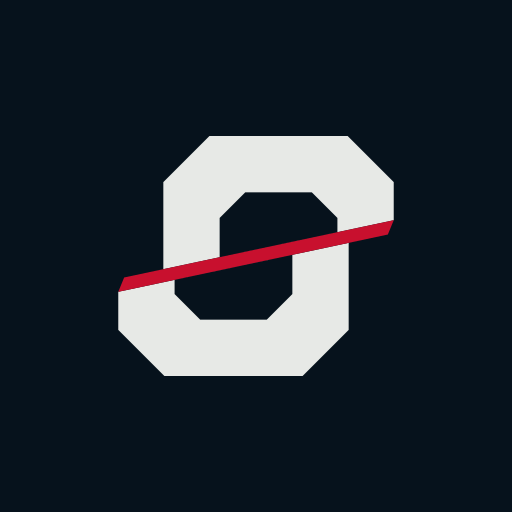
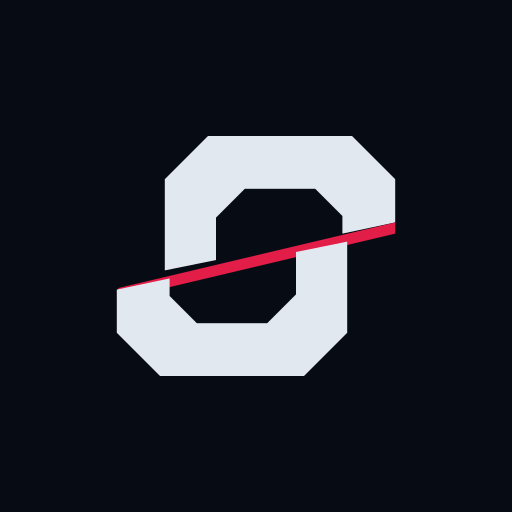
chore: update application branding assets
Replace favicon, apple-touch-icon, and PWA icons with updated design assets.

diff --git a/src/components/workspace/WorkspaceHeader.tsx b/src/components/workspace/WorkspaceHeader.tsx
@@ -28,9 +28,12 @@ export function WorkspaceHeader({
       <header className="border-b border-zinc-200 bg-white">
         <div className="mx-auto max-w-6xl px-4 py-3 sm:px-6 flex flex-wrap items-center justify-between gap-3">
           <div className="flex items-center gap-3">
-            <div className="flex h-9 w-9 items-center justify-center rounded-lg bg-zinc-900 text-white font-bold text-sm tracking-wider shadow-xs">
-              BG
-            </div>
+            {/* eslint-disable-next-line @next/next/no-img-element */}
+            <img
+              src="/favicon.svg"
+              alt="Logo"
+              className="h-9 w-9 rounded-lg shadow-xs shrink-0 object-contain"
+            />
             <div>
               <div className="flex items-center gap-2">
                 <h1 className="text-base font-bold text-zinc-900 [text-wrap:balance]">

diff --git a/src/app/layout.tsx b/src/app/layout.tsx
@@ -18,7 +18,16 @@ import { BRANDING } from "@/config/branding";
 
 export const metadata: Metadata = {
   title: BRANDING.PRODUCT_NAME,
-  description: "Deterministic trade stress testing, basis decoupling analysis, and thesis vs position deconstruction."
+  description: "Deterministic trade stress testing, basis decoupling analysis, and thesis vs position deconstruction.",
+  icons: {
+    icon: [
+      { url: "/favicon.svg", type: "image/svg+xml" },
+      { url: "/favicon.ico", sizes: "any" }
+    ],
+    apple: [
+      { url: "/apple-touch-icon.png", sizes: "180x180", type: "image/png" }
+    ]
+  }
 };
 
 export default function RootLayout({ children }: Readonly<{ children: React.ReactNode }>) {
